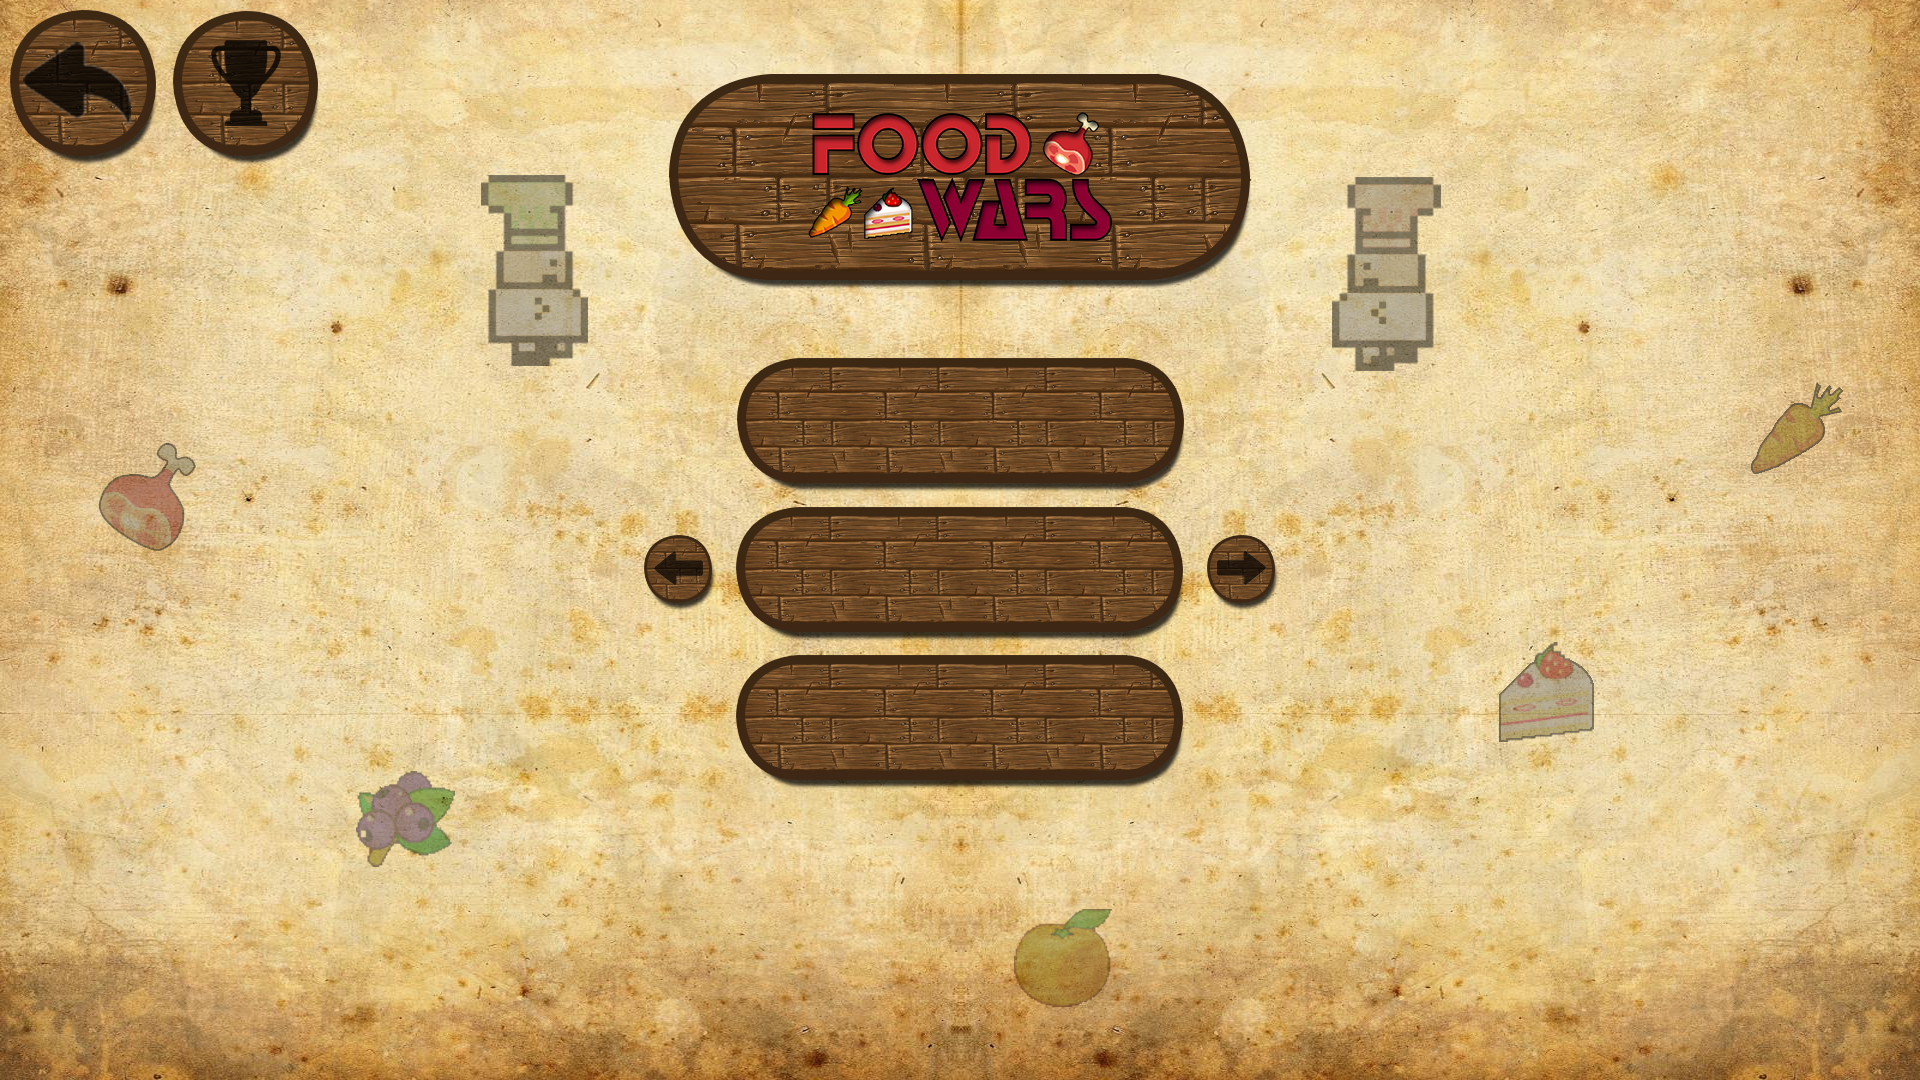
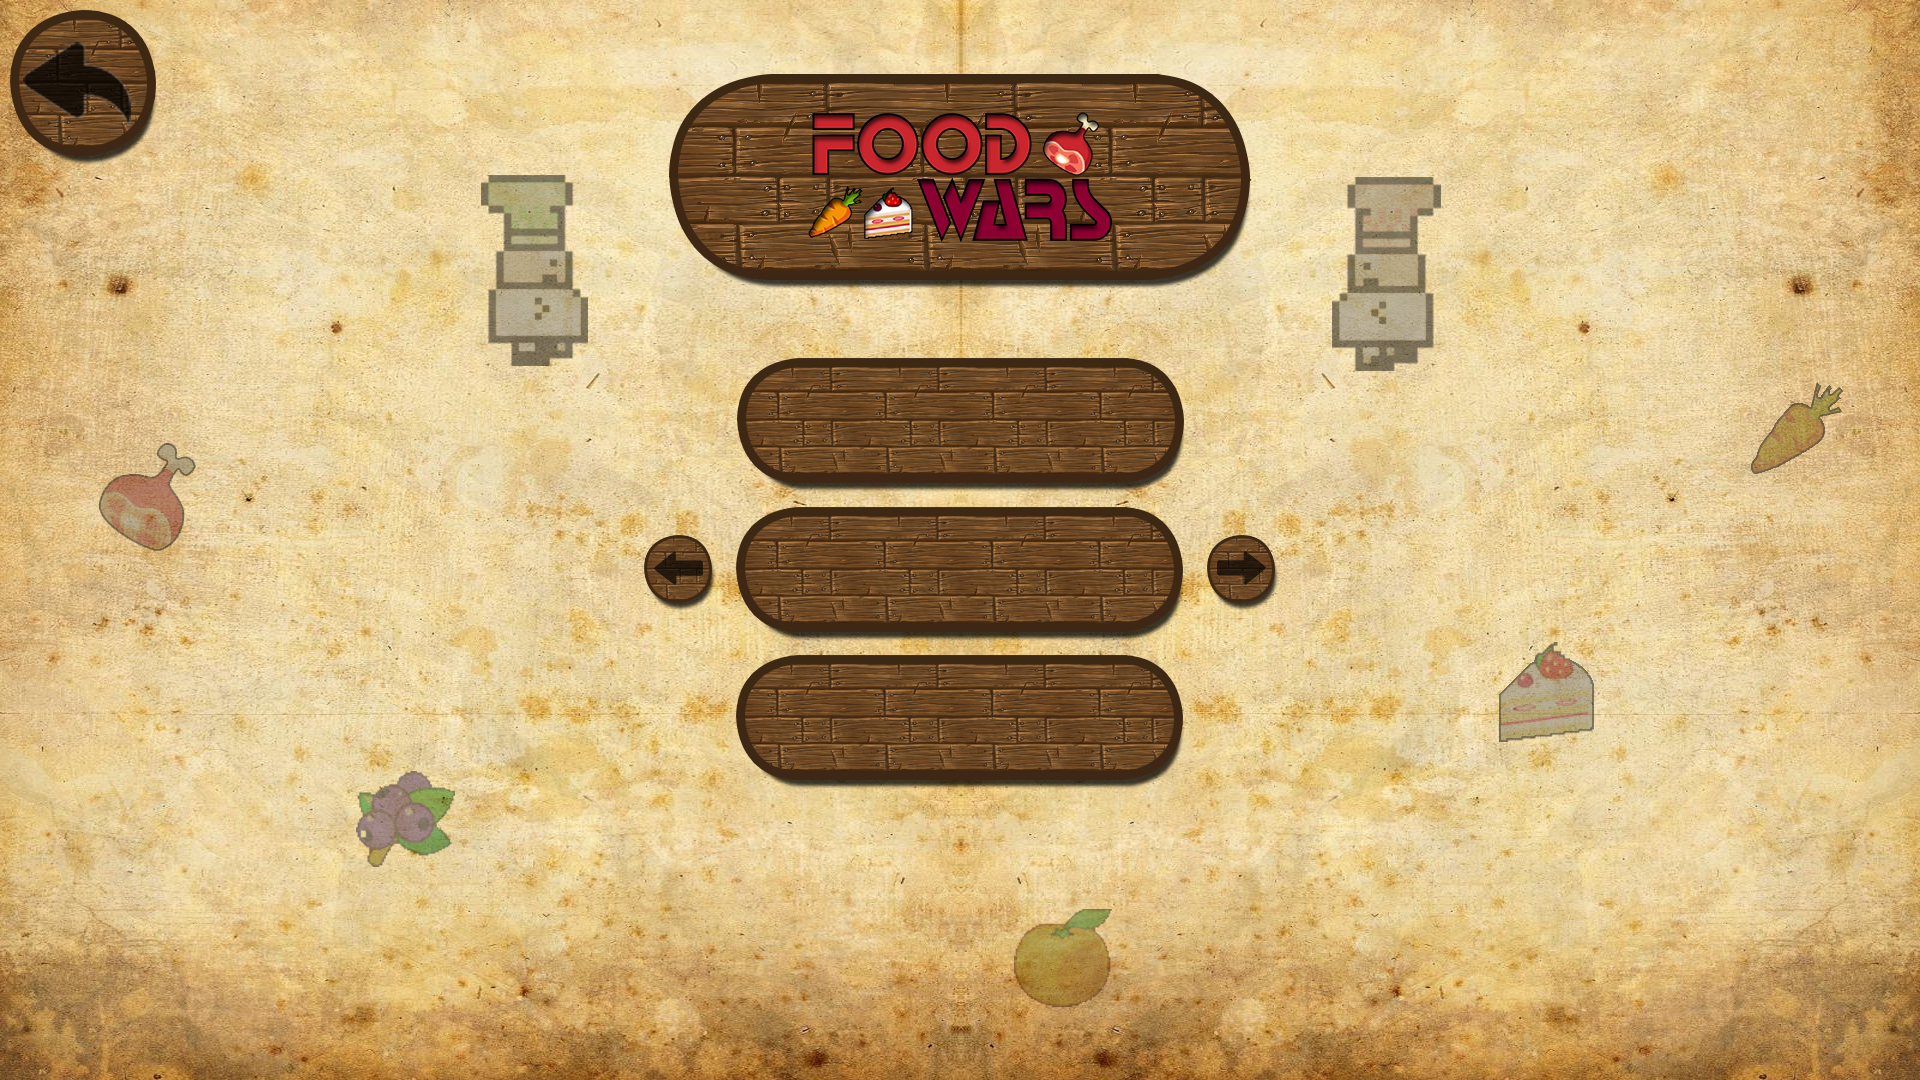
screen background fixes

Changed region(s): [[0.0625, 0.0, 0.1875, 0.1528]]

diff --git a/FoodWars/Sources/StateMachine/MainMenuScreen.cpp b/FoodWars/Sources/StateMachine/MainMenuScreen.cpp
@@ -31,15 +31,6 @@ MainMenuScreen::MainMenuScreen(ScreenStateManager& context) :
             Colour{255,255,255,0},
             Colour{255,255,255,0})->addToRender(&_renderList);
 
-    // Upgrades
-    createShape<TextButton>(_inputFacade->getMouseEventObservable(),"Upgrades",
-            [c = _context]() {
-                //c->setActiveScreen<UpgradesScreen>();
-            },
-            370, 110, 615, 540,
-            Colour{255,255,255,0},
-            Colour{255,255,255,0})->addToRender(&_renderList);
-
     // Settings
     createShape<SpriteButton>(_inputFacade->getMouseEventObservable(), "",
             [c = _context]() {
